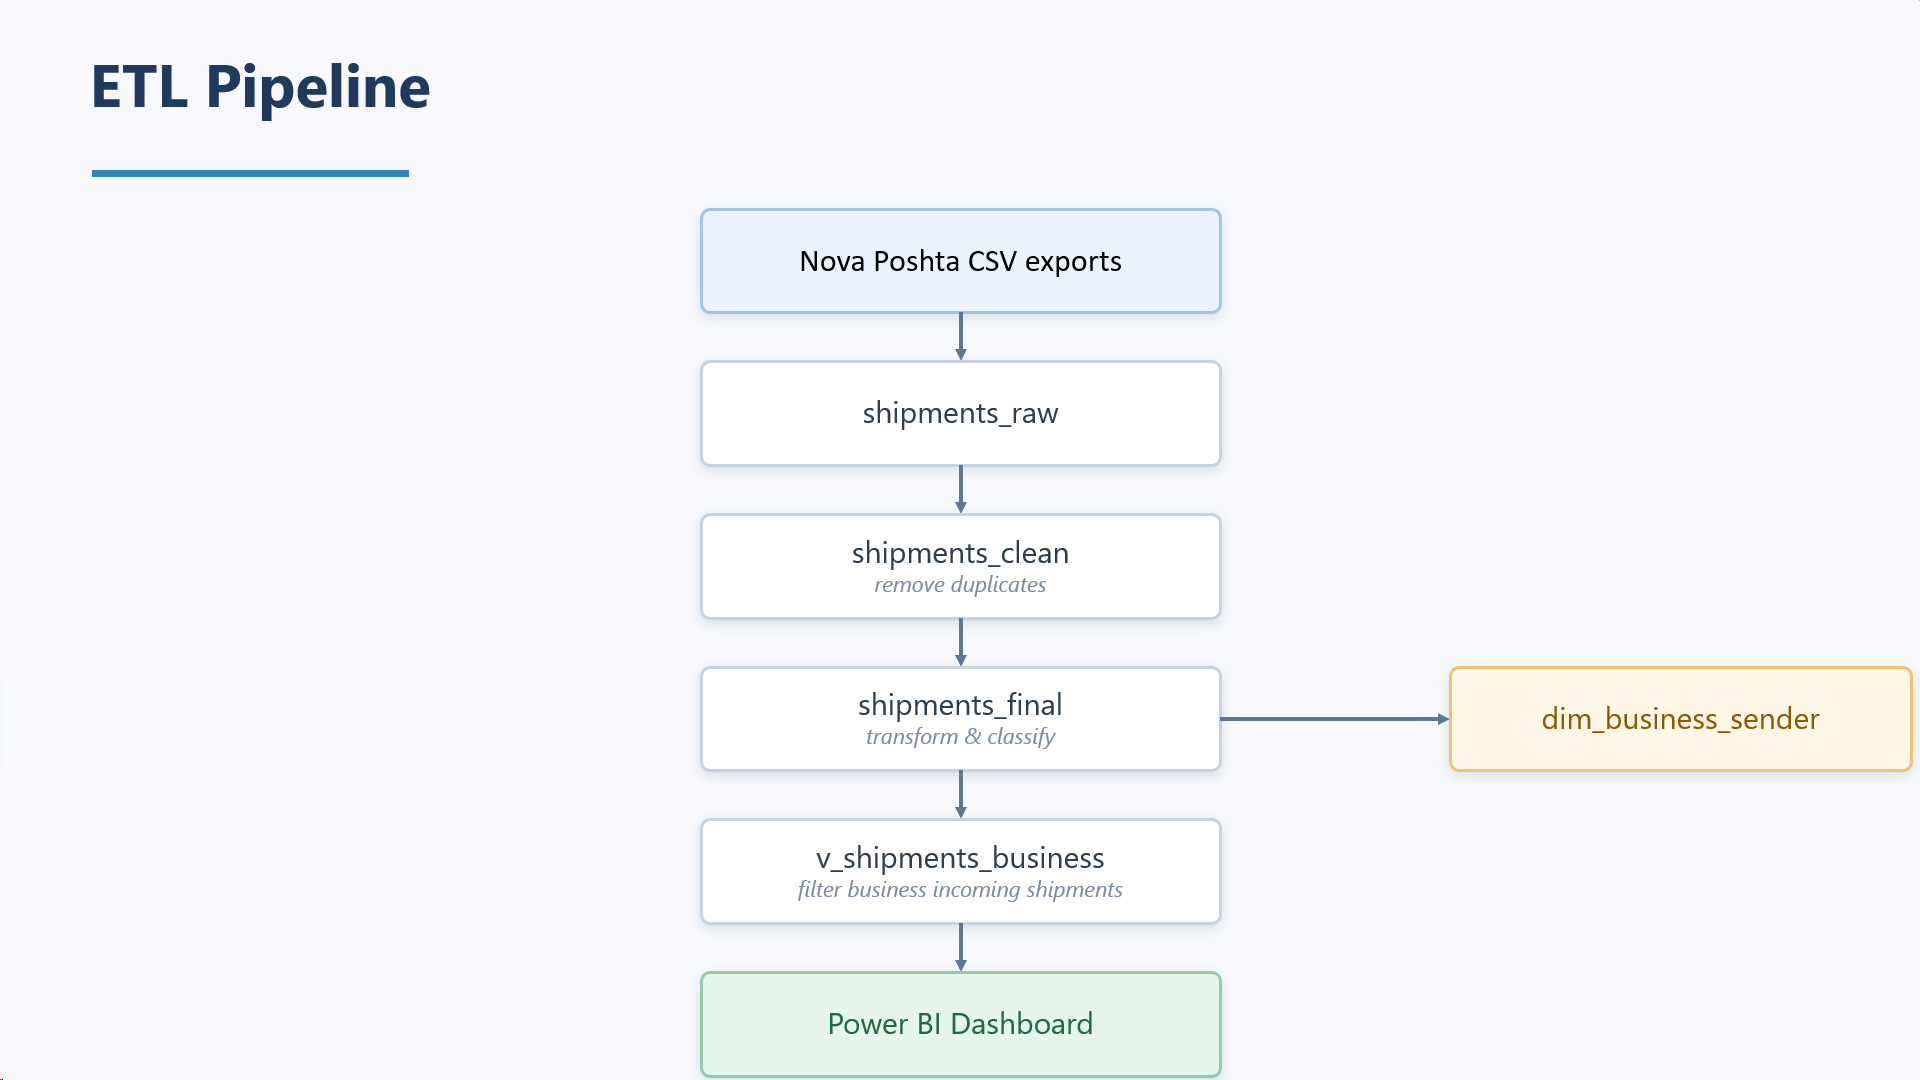
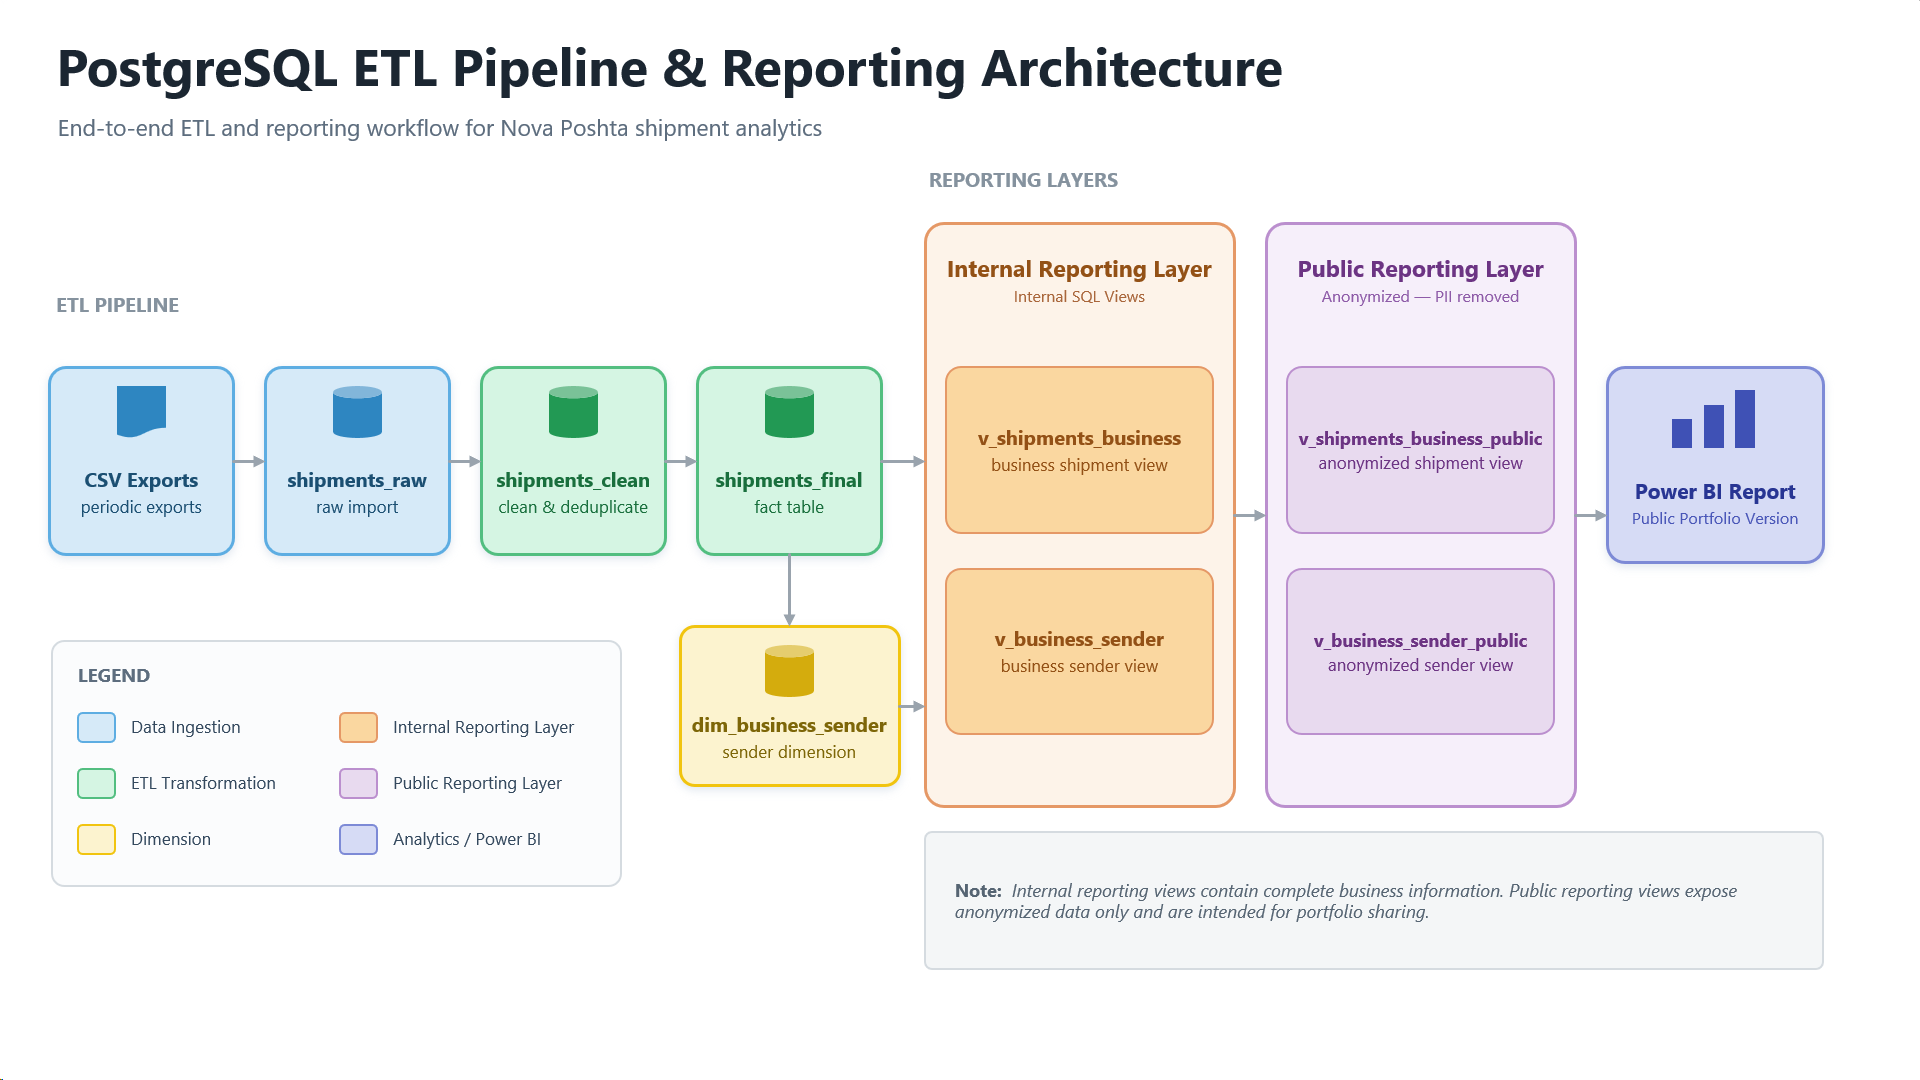
Update README with reporting architecture and ETL pipeline diagram

diff --git a/README.md b/README.md
@@ -2,7 +2,7 @@
 
 ## Project Overview
 
-This project demonstrates a complete data analytics workflow using real shipment data exported from Nova Poshta.
+This project demonstrates a complete data analytics workflow using real shipment data exported from Nova Poshta. The public version of this project uses anonymized reporting views to remove personally identifiable sender information while preserving the analytical model.
 
 The project includes the following components:
 
@@ -49,7 +49,7 @@ Nova_Poshta_Analytics/
 │   └── 05_update_database.sql
 │
 ├── powerbi/
-│   └── Nova_Poshta_Analytics.pbix
+│   └── Nova_Poshta_Logistics_Analytics.pbix
 │
 ├── images/
 │
@@ -65,7 +65,7 @@ Nova_Poshta_Analytics/
 | `01_create_schema.sql`        | Creates the database schema and tables                |
 | `02_prepare_data.sql`         | Cleans historical shipment data and transforms it into an analytical model  |
 | `03_create_dimensions.sql`    | Builds and populates the business sender dimension    |
-| `04_create_views.sql`         | Creates reporting views used by Power BI              |
+| `04_create_views.sql`         | Creates internal and public reporting views for analytical reporting.  |
 | `05_update_database.sql`      | Performs incremental updates by inserting only new shipment records and updating dimensions  |
 
 ## ETL Pipeline
@@ -75,6 +75,8 @@ Nova_Poshta_Analytics/
 The ETL pipeline separates raw data ingestion, data cleansing, transformation, and reporting into independent stages. This layered approach simplifies maintenance, improves data quality, and supports incremental updates without rebuilding the entire dataset.
 
 The analytical model stores all cleaned shipments in 'shipments_final' (126 records). The Power BI dashboard is built on 'v_shipments_business', which filters the dataset to 102 business-related incoming shipments.
+
+The reporting layer is separated into internal and public SQL views. Internal views expose full business information, while public views anonymize sender identities for the portfolio version of the Power BI report.
 
 ## Power BI Dashboard
 
@@ -102,6 +104,8 @@ The Business Senders page focuses on:
 - shipment trends
 
 ![Business](images/top_sender.png)
+
+The repository contains the public Power BI report built on anonymized SQL views. A separate internal report uses the corresponding internal views with real sender identities.
 
 The report also uses a custom tooltip page to display additional sender metrics without overcrowding the main dashboard.
 
@@ -141,6 +145,14 @@ Instead of rebuilding the database, the update process:
 
 This approach preserves historical data while allowing the analytical model to grow over time.
 
+## Data Privacy
+
+The repository contains only anonymized reporting views.
+
+Business sender names and phone numbers remain available only in the internal reporting layer and are excluded from the public Power BI report.
+
+The public dashboard replaces sender identities with synthetic identifiers (BS001, BS002, ...), allowing the analytical model to be shared without exposing personal information.
+
 ## Validation
 
 The ETL pipeline was validated using both the initial historical dataset and a subsequent shipment export.
@@ -149,8 +161,8 @@ The ETL pipeline was validated using both the initial historical dataset and a s
 |-----------------------------|-----------|---------------|
 | shipments_clean             | 110       | 126           |
 | shipments_final             | 110       | 126           |
-| business senders            | 46        | 53            |
-| business shipments (view)   | 88        | 102           |
+| business_senders            | 46        | 53            |
+| v_shipments_business        | 88        | 102           |
 
 The successful validation confirms that the incremental ETL process preserves historical data while importing only newly detected shipments.
 
@@ -161,7 +173,7 @@ Future development may include:
 - publishing the report to Power BI Service
 - creating an interactive PowerPoint presentation
 - designing a mobile-optimized Power BI report layout
-- improving supplier identification by replacing contact-based sender classification with a dedicated supplier mapping
+- mapping multiple shipment senders to actual suppliers using additional business reference data provided by the company
 - redesigning the incremental loading process to use database constraints (`UNIQUE`) and conflict handling (`ON CONFLICT`) for more efficient data ingestion
 - automating CSV import and ETL execution
 - adding geographic analysis of shipment destinations
